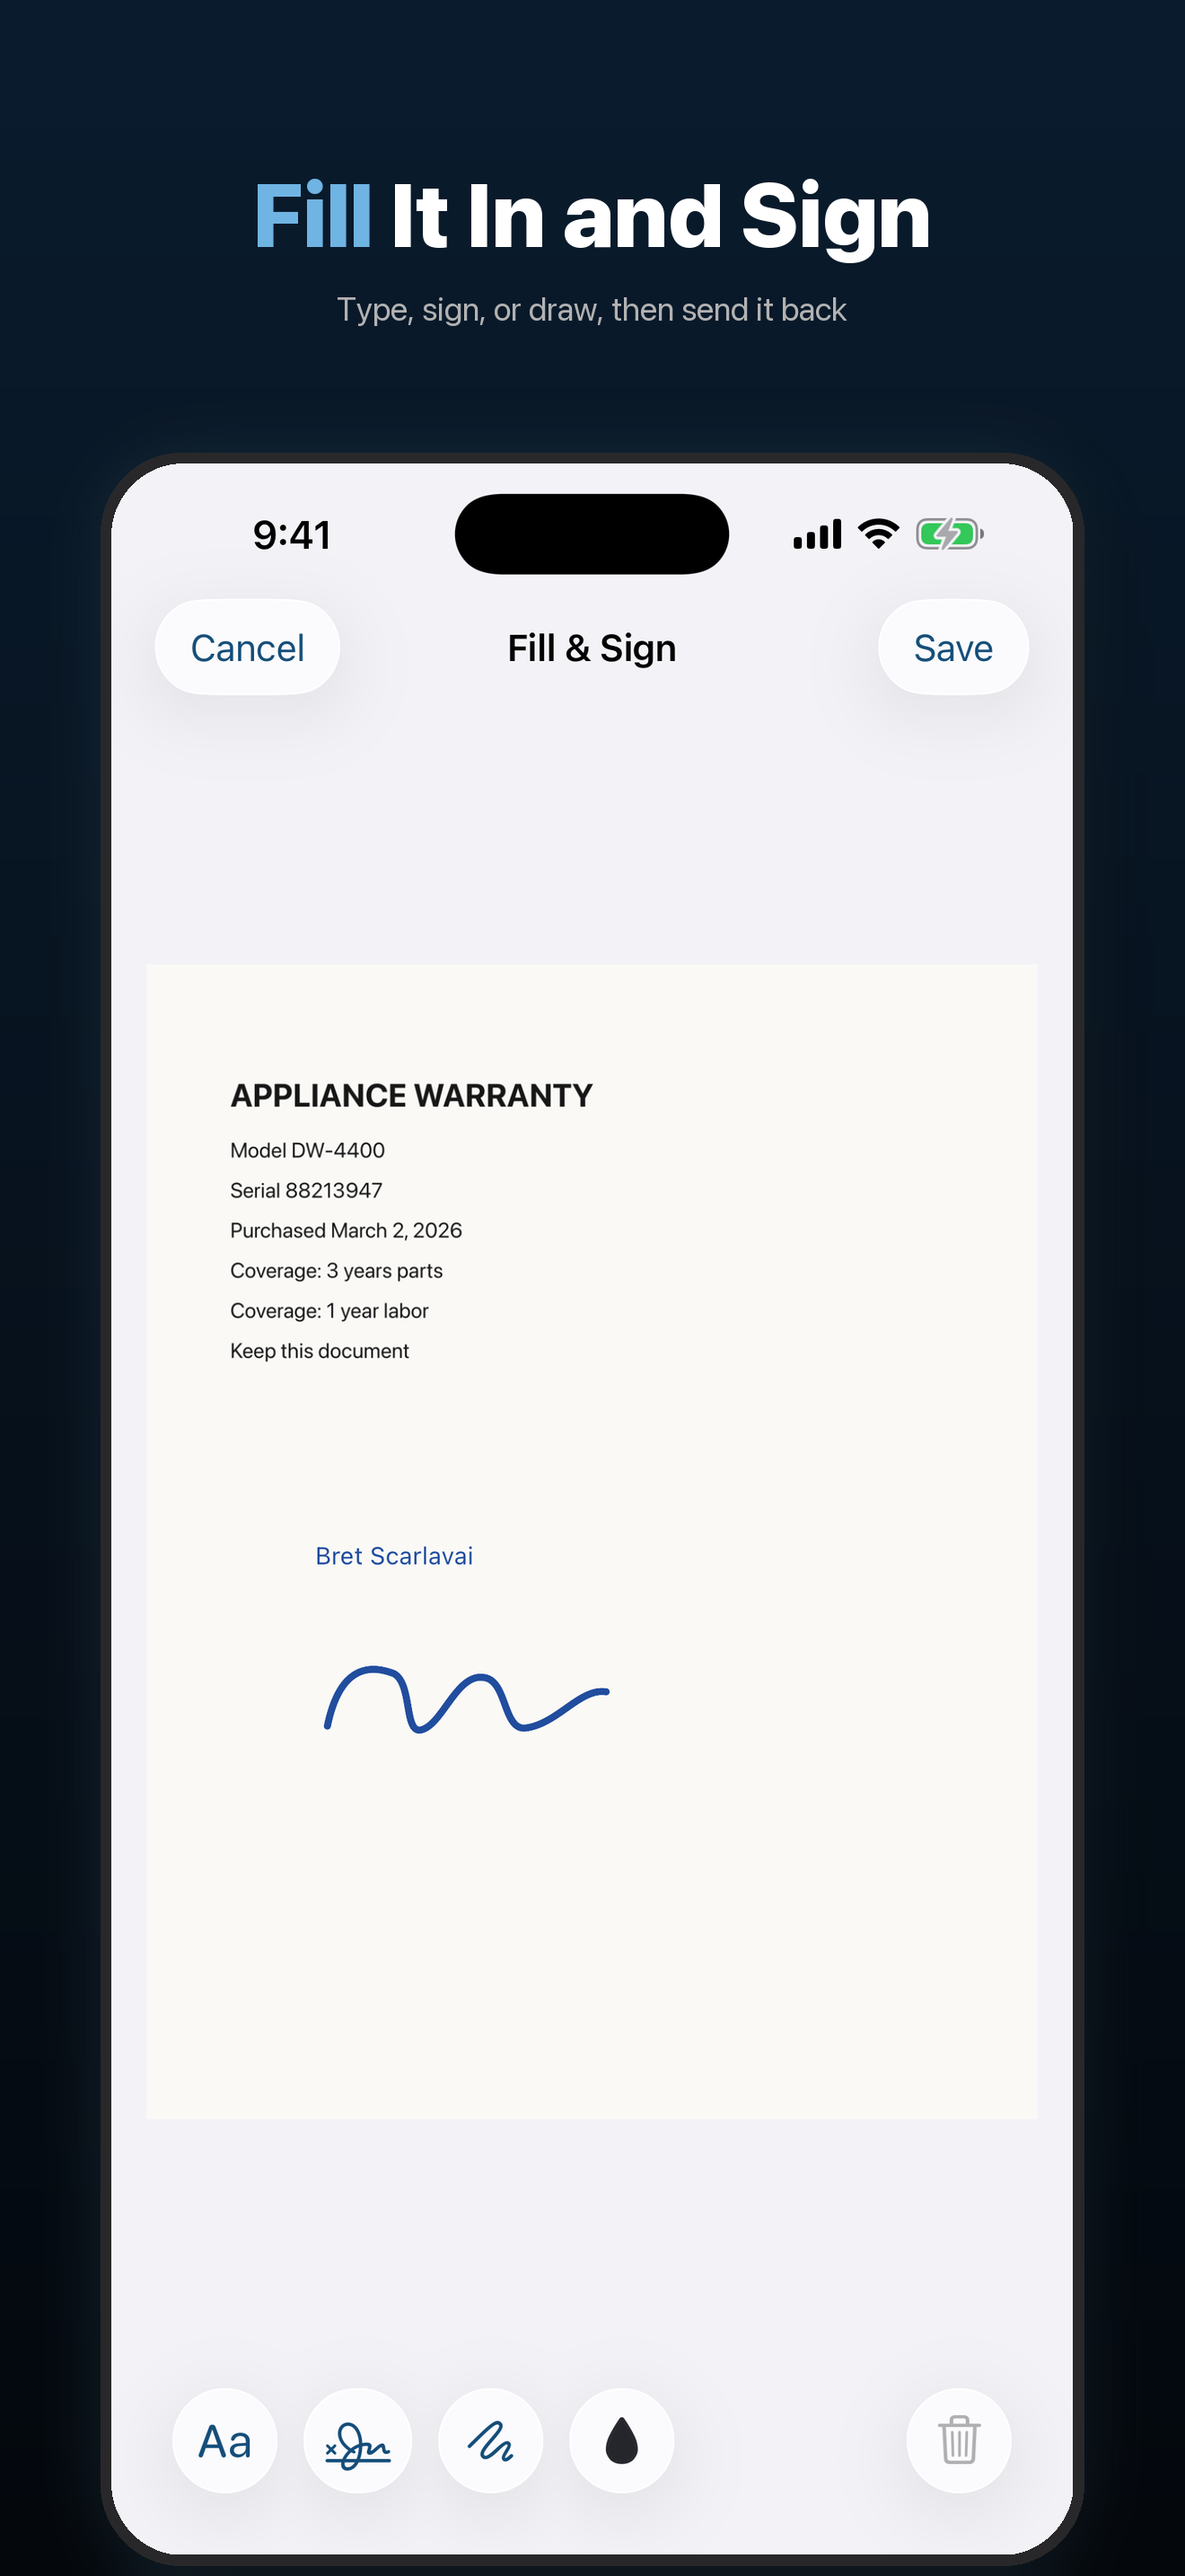
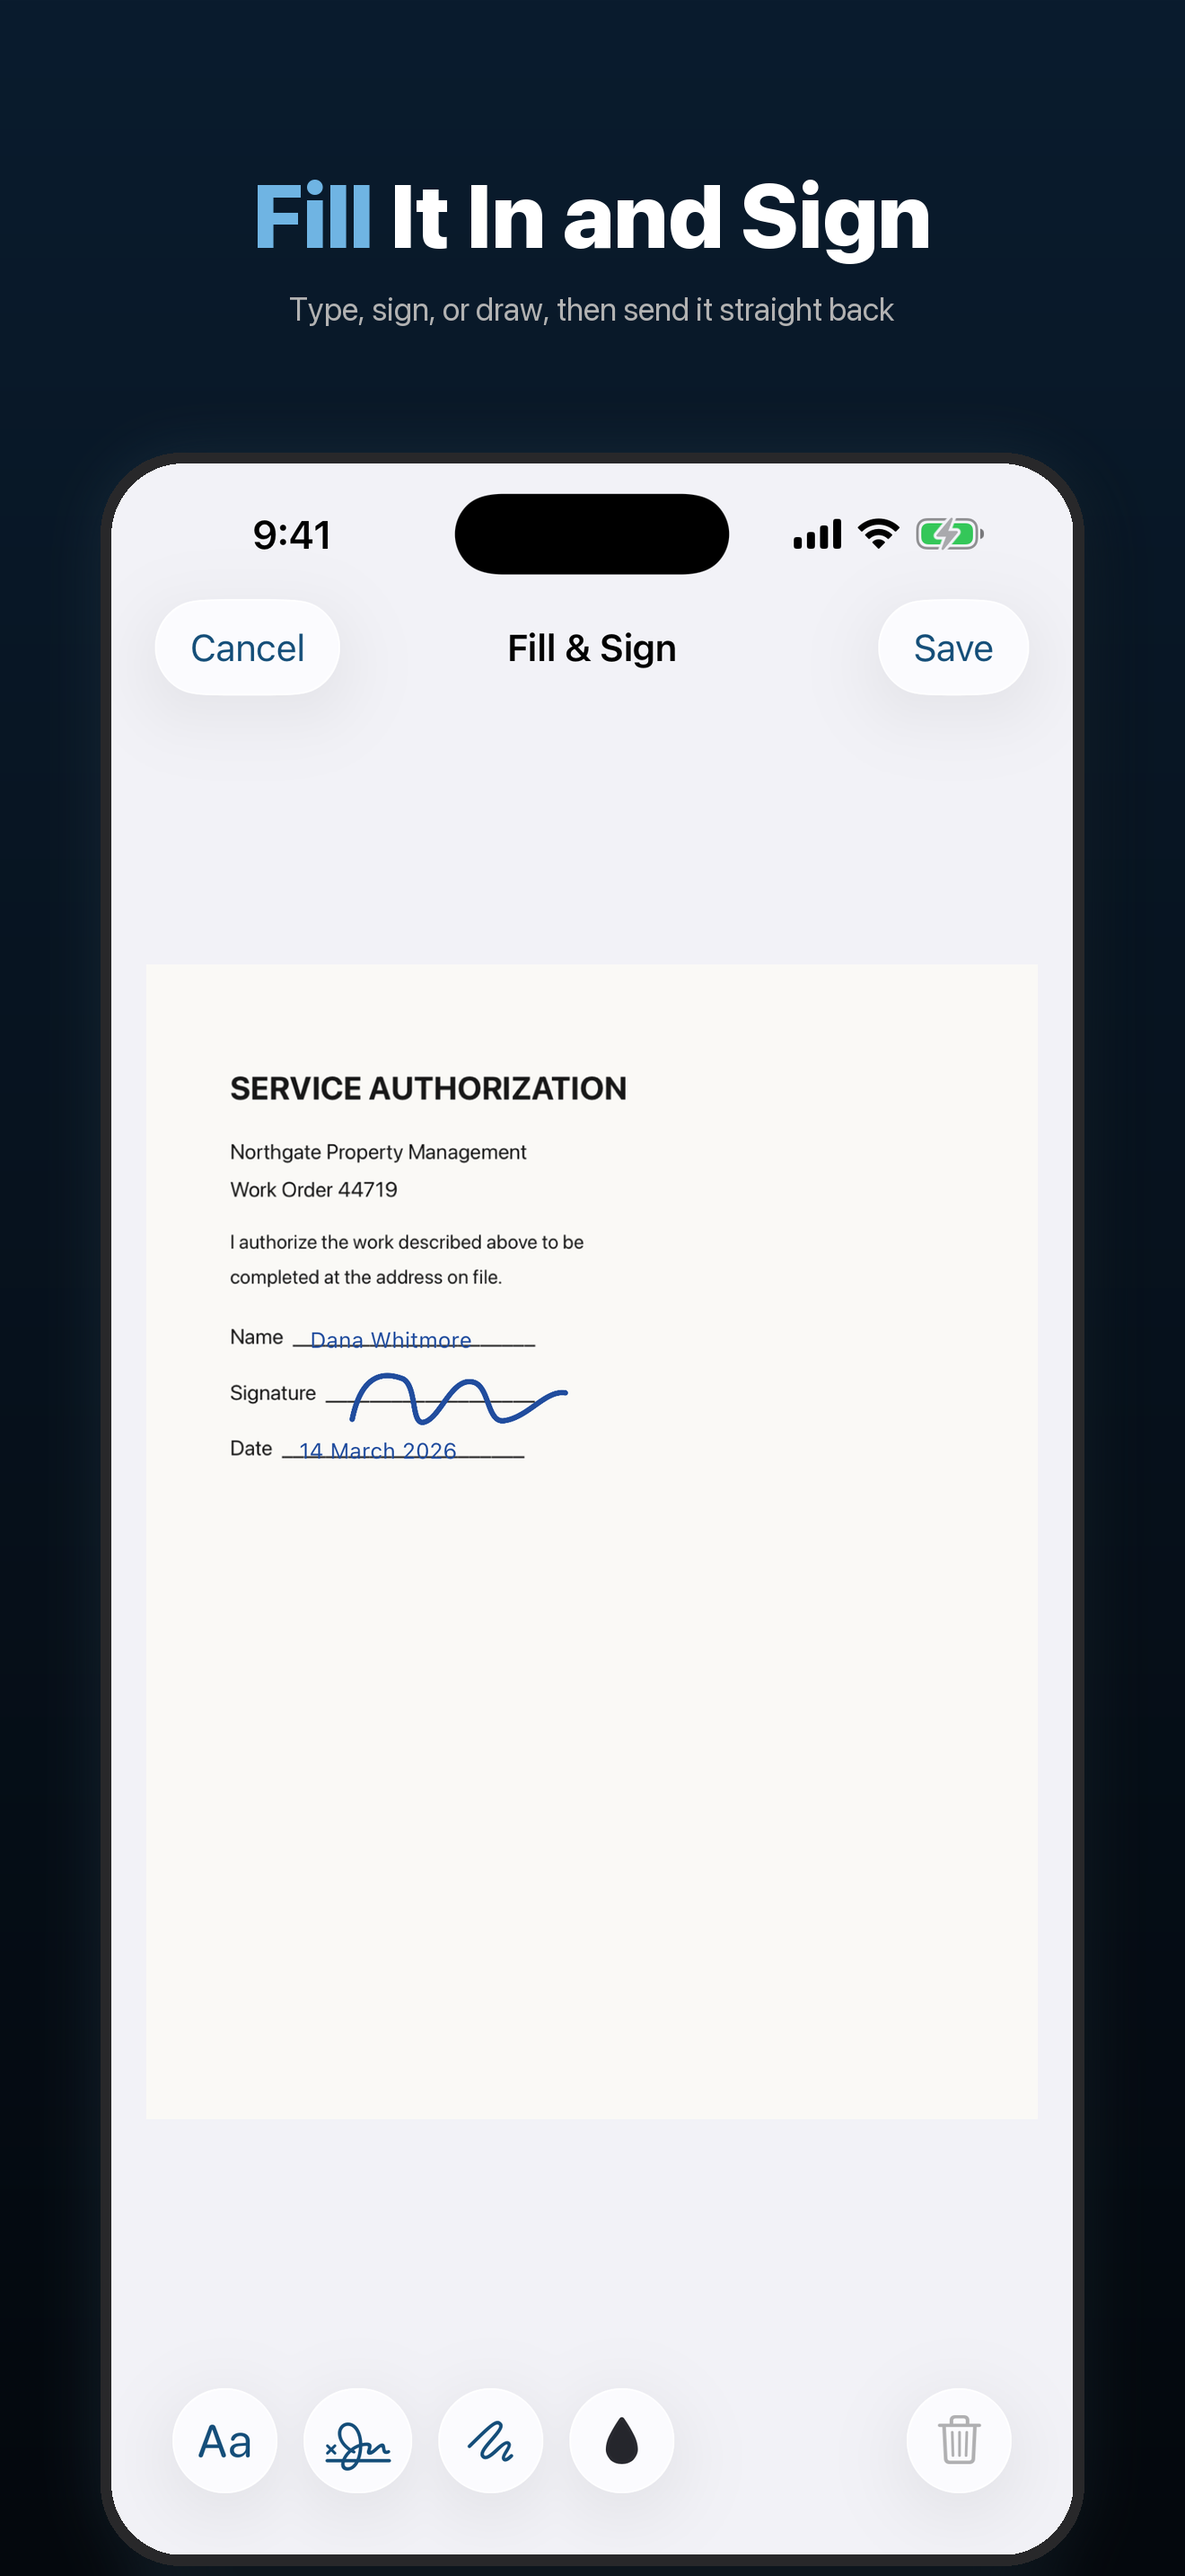
Rebuild screenshots around a signable form, and fix a WYSIWYG bug
The sample document was a warranty card. You don't sign a warranty card, so the
Fill & Sign shot was a signature floating in empty space. Seeded data now
includes a service authorization form with Name, Signature and Date rules, and
the markups anchor to positions computed by the same layout pass that draws
them rather than guessed at.

The typed name was the developer's real full name, on what would have been a
public product page. It is a made-up one now.

Fixing the anchors surfaced a real bug: MarkupItem centred content in its 44pt
tap target, so a markup drew about 22pt lower in the editor than
MarkupRenderer places it in the saved PDF. What you positioned was not where it
landed. The tap target now grows downward.

Screenshot order leads with "No subscription", which is the differentiator in a
category owned by four apps with over a million ratings each. The finishes shot
says plainly that the tip unlocks them, since a screenshot showing a paid
feature must not read as free.

Store copy moves to US spellings.

Claude-Session: https://claude.ai/code/session_01Vuc3JASA8YL1eq6phS3itZ

diff --git a/Ream/Services/SampleScans.swift b/Ream/Services/SampleScans.swift
@@ -64,8 +64,11 @@ enum SampleScans {
             return label
         }
 
-        for (index, lines) in documents.enumerated() {
-            let page = renderPage(lines: lines)
+        var pages: [UIImage] = documents.map { renderPage(lines: $0) }
+        let form = renderForm()
+        pages.append(form.image)
+
+        for (index, page) in pages.enumerated() {
             await pipeline.process(pages: [page], into: context)
 
             // Attach to whatever the pipeline just inserted — it's the newest document.
@@ -76,6 +79,7 @@ enum SampleScans {
             newest.labels = index == 0
                 ? [labels[0], labels[2]]        // one document with two labels
                 : [labels[index % labels.count]]
+            if index == pages.count - 1 { newest.title = "Service Authorization" }
         }
         try? context.save()
 
@@ -86,26 +90,99 @@ enum SampleScans {
             sortBy: [SortDescriptor(\.createdAt, order: .reverse)]
         )
         if let document = try? context.fetch(newest).first {
-            var typed = PageMarkup(kind: .text("Bret Scarlavai"),
+            // A made-up name. Never a real person's, and least of all the developer's: this
+            // ends up on a public App Store product page.
+            var typed = PageMarkup(kind: .text("Dana Whitmore"),
                                    pageIndex: 0,
-                                   origin: CGPoint(x: 0.17, y: 0.47),
+                                   origin: form.anchors["name"] ?? CGPoint(x: 0.2, y: 0.5),
                                    widthFraction: 0.4)
-            typed.fontFraction = 0.021
+            typed.fontFraction = 0.019
             typed.ink = .blue
+
+            var dated = PageMarkup(kind: .text("14 March 2026"),
+                                   pageIndex: 0,
+                                   origin: form.anchors["date"] ?? CGPoint(x: 0.2, y: 0.66),
+                                   widthFraction: 0.3)
+            dated.fontFraction = 0.019
+            dated.ink = .blue
 
             var signed = PageMarkup(kind: .drawing(signatureMark()),
                                     pageIndex: 0,
-                                    origin: CGPoint(x: 0.17, y: 0.58),
-                                    widthFraction: 0.34)
+                                    // A signature sits higher than typed text: the squiggle's
+                                    // own bounding box is taller than the ink inside it.
+                                    origin: (form.anchors["signature"]
+                                             ?? CGPoint(x: 0.2, y: 0.58))
+                                        .applying(.init(translationX: 0, y: -0.020)),
+                                    widthFraction: 0.26)
             signed.ink = .blue
 
-            document.markupData = MarkupStore.encode([typed, signed])
+            document.markupData = MarkupStore.encode([typed, dated, signed])
         }
 
         try? context.save()
         // The pipeline rebuilt the manifest as each document landed — before these labels
         // were attached. Without this the sample library exports without its labels.
         LibraryManifest.rebuild(from: context)
+    }
+
+    /// A blank form with rules to fill in, and the normalized position of each rule.
+    ///
+    /// Anchors come out of the same layout loop that draws the page, so a markup placed at
+    /// `anchors["signature"]` sits on the signature line by construction rather than by
+    /// eyeballing a screenshot. Sample content is a warranty card elsewhere; you don't sign a
+    /// warranty card, so Fill & Sign needs something that is actually signable.
+    static func renderForm() -> (image: UIImage, anchors: [String: CGPoint]) {
+        let width = 1275, height = 1650
+        let lines: [(String, CGFloat, Bool, String?)] = [
+            ("SERVICE AUTHORIZATION", 46, true, nil),
+            ("", 18, false, nil),
+            ("Northgate Property Management", 30, false, nil),
+            ("Work Order 44719", 30, false, nil),
+            ("", 22, false, nil),
+            ("I authorize the work described above to be", 28, false, nil),
+            ("completed at the address on file.", 28, false, nil),
+            ("", 34, false, nil),
+            ("Name  ______________________", 30, false, "name"),
+            ("", 26, false, nil),
+            ("Signature  ___________________", 30, false, "signature"),
+            ("", 26, false, nil),
+            ("Date  ______________________", 30, false, "date"),
+        ]
+
+        var anchors: [String: CGPoint] = [:]
+        let format = UIGraphicsImageRendererFormat.default()
+        format.scale = 1
+        let image = UIGraphicsImageRenderer(size: CGSize(width: width, height: height),
+                                            format: format).image { context in
+            UIColor(red: 0.98, green: 0.975, blue: 0.965, alpha: 1).setFill()
+            context.fill(CGRect(x: 0, y: 0, width: width, height: height))
+
+            var y: CGFloat = 150
+            let left: CGFloat = 120
+            for (text, size, isBold, anchor) in lines {
+                if text.isEmpty { y += size; continue }
+                let font = isBold ? UIFont.systemFont(ofSize: size, weight: .bold)
+                                  : UIFont.systemFont(ofSize: size)
+                (text as NSString).draw(at: CGPoint(x: left, y: y), withAttributes: [
+                    .font: font,
+                    .foregroundColor: UIColor(white: 0.09, alpha: 1),
+                ])
+                if let anchor {
+                    // Just right of the label, sitting ON the rule.
+                    //
+                    // `y` is the TOP of the label text, but the rule is drawn at its
+                    // baseline, and a markup's stored y is also its top. Writing at the
+                    // label's top therefore lands a line low. Lifting by the ascent puts the
+                    // written text on the rule instead of under it.
+                    let labelWidth = (text.prefix(while: { $0 != "_" }) as NSString)
+                        .size(withAttributes: [.font: font]).width
+                    anchors[anchor] = CGPoint(x: (left + labelWidth) / CGFloat(width),
+                                              y: (y - font.ascender * 0.55) / CGFloat(height))
+                }
+                y += font.lineHeight * 1.5
+            }
+        }
+        return (image, anchors)
     }
 
     /// A handwriting-shaped squiggle, drawn rather than captured, so seeded data needs no

diff --git a/Ream/Views/Components/MarkupItem.swift b/Ream/Views/Components/MarkupItem.swift
@@ -19,9 +19,13 @@ struct MarkupItem: View {
         content
             .padding(.horizontal, 8)
             .padding(.vertical, 6)
+            // `.topLeading`, not `.leading`. A 44pt minimum with centre alignment pushes the
+            // content down by half the slack, so a markup drew about 22pt lower on screen
+            // than `MarkupRenderer` places it in the saved PDF. Growing the tap target
+            // downward instead keeps the editor honest: what you position is where it lands.
             .frame(minWidth: Theme.minTapTarget,
                    minHeight: Theme.minTapTarget,
-                   alignment: .leading)
+                   alignment: .topLeading)
             .background {
                 RoundedRectangle(cornerRadius: 6)
                     .fill(.tint.opacity(isSelected ? 0.10 : 0.001))

diff --git a/docs/APP_STORE_LISTING.md b/docs/APP_STORE_LISTING.md
@@ -76,7 +76,7 @@ YOURS TO KEEP
 Export every scan as a plain ZIP of ordinary PDFs. No proprietary format, nothing locked in. A backup you can only open with the app that made it is not a backup.
 
 FREE, AND HONEST ABOUT IT
-Every feature above is free and always will be. If Ream saves you from a scanner subscription, there is a one-time Supporter tip inside that unlocks four extra accent colours. It unlocks nothing else. Nothing in this app is gated behind it.
+Every feature above is free and always will be. If Ream saves you from a scanner subscription, there is a one-time Supporter tip inside that unlocks four extra accent colors. It unlocks nothing else. Nothing in this app is gated behind it.
 ```
 
 **What's New** (v1.0)
@@ -131,7 +131,7 @@ table changes** and the labels must be updated with the next version.
 Ream is an offline document scanner. Scanning, text recognition and PDF creation all run on-device. There is no account, no server and no login, so no demo credentials are required.
 
 IN-APP PURCHASES
-The three purchases are optional, non-consumable tips. They unlock four alternative accent colours and nothing else. No scanning, OCR, PDF creation, editing, export or sharing feature is gated behind them, and the app is fully functional without any purchase. Restore Purchase is in the same screen.
+The three purchases are optional, non-consumable tips. They unlock four alternative accent colors and nothing else. No scanning, OCR, PDF creation, editing, export or sharing feature is gated behind them, and the app is fully functional without any purchase. Restore Purchase is in the same screen.
 
 TO REACH THEM
 Open the app, tap the gear in the top right, then "Support Ream" or "Finish".
@@ -142,7 +142,7 @@ The camera permission is used only for scanning documents with the system docume
 
 **In-App Purchase Review Notes** (per product, in the IAP's own *Review Notes* field)
 ```
-Optional tip. Unlocks four alternative accent colours in the app's Finish picker and nothing else. No functionality is gated behind this purchase; the app is fully usable without it. To reach it: open the app, tap the gear icon in the top right, then "Finish".
+Optional tip. Unlocks four alternative accent colors in the app's Finish picker and nothing else. No functionality is gated behind this purchase; the app is fully usable without it. To reach it: open the app, tap the gear icon in the top right, then "Finish".
 ```
 
 ---
@@ -155,6 +155,6 @@ Use the `app-store-screenshots` skill. Suggested order, strongest first:
 2. **Search mid-query**, showing a match found by a word inside a document. This is the whole
    pitch and it is invisible in a static shot of the library, so the caption has to carry it.
 3. **Fill & Sign** with typed text and a signature on a form.
-4. **The finish picker**, showing the app is customisable and that the tip unlocks colours.
+4. **The finish picker**, showing the app is customizable and that the tip unlocks colors.
 5. **Onboarding card 3** (the struck-through list) as the closer: no subscription, no ads, no
    watermarks, no account.

diff --git a/docs/REVENUECAT-SETUP.md b/docs/REVENUECAT-SETUP.md
@@ -49,7 +49,7 @@ For each of the three products: **Monetization → In-App Purchases → +**
 
 7. **Review screenshot** — required once per product before first submission. A capture of
    Settings → Finish showing the tiers is enough.
-8. **Review notes**: state plainly that these unlock cosmetic accent colours only and that no
+8. **Review notes**: state plainly that these unlock cosmetic accent colors only and that no
    functionality is gated. Reviewers check this against the paywall copy.
 9. Each product should reach **Ready to Submit**, and all three must be attached to the first
    app version you submit.
